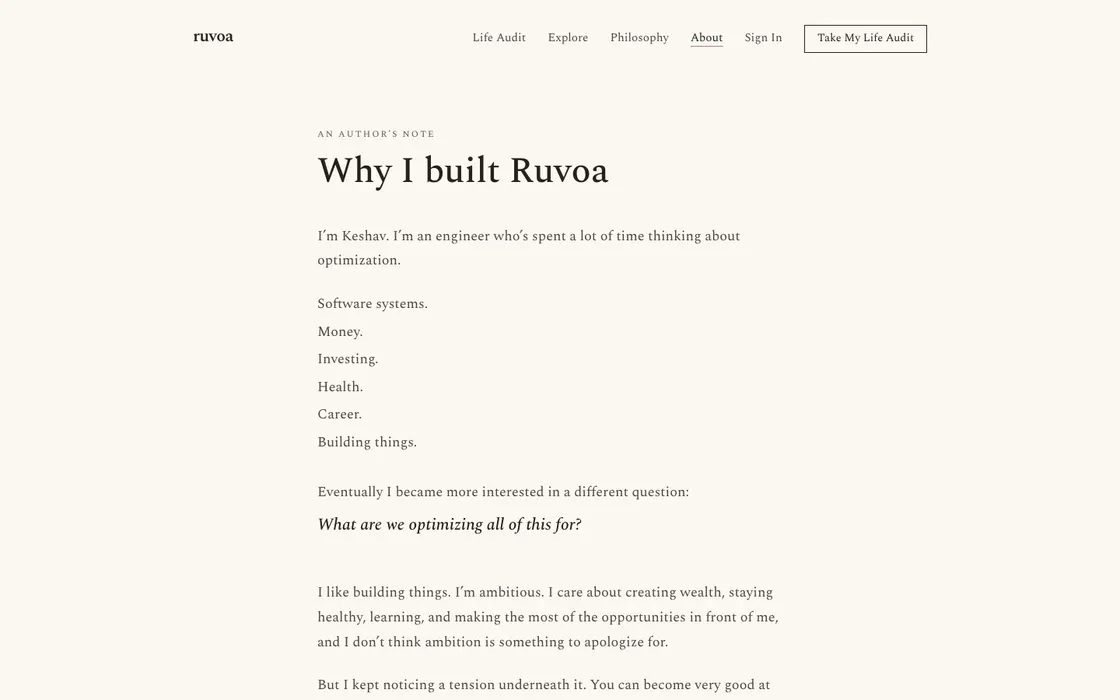
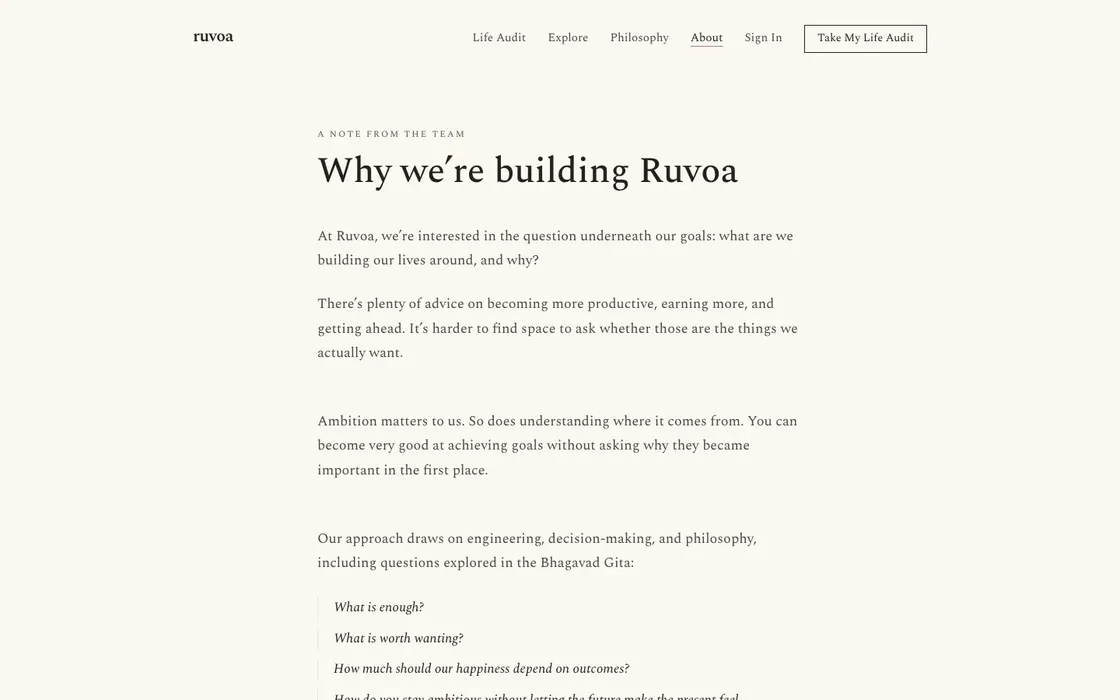
Refresh the Ruvoa About screenshot for the new team voice
Ruvoa's About page was rewritten and deployed, so the last slideshow frame
showed the retired first-person note. Recaptured from the live site after
confirming the new copy was serving.

The frame's alt text described "the author's first-person note", which is
precisely what the page is no longer, so that is updated too. The other four
Ruvoa frames are untouched: both upstream commits changed only the About
route.

diff --git a/src/config/websites.js b/src/config/websites.js
@@ -18,7 +18,7 @@ export const websiteExamples = [
       { src: '/work/ruvoa/life-audit.webp', page: 'Life Audit', alt: 'Life Audit page walking through a miniature version of the product.' },
       { src: '/work/ruvoa/explore.webp', page: 'Explore', alt: 'Explore page: a gallery of example result artifacts.' },
       { src: '/work/ruvoa/philosophy.webp', page: 'Philosophy', alt: 'Philosophy essay page with a drop cap opening.' },
-      { src: '/work/ruvoa/about.webp', page: 'About', alt: "About page with the author's first-person note." },
+      { src: '/work/ruvoa/about.webp', page: 'About', alt: 'About page: a note from the team on why they are building Ruvoa.' },
     ],
   },
   {

diff --git a/docs/ai/CURRENT_PLAN.md b/docs/ai/CURRENT_PLAN.md
@@ -583,3 +583,27 @@ building AI-powered products" line matches current positioning. Left alone.
 Build passes. The only remaining "two weeks" in the codebase is the FAQ
 conditional at config/websites.js:126, which is contingent on client response
 time rather than a promise.
+
+
+## Round 16 (Claude, 2026-09-22): refresh the Ruvoa About screenshot
+
+Ruvoa's /about page was rewritten into the team voice (ruvoa commits 948274c,
+a18f7b8) and deployed, so the fifth slideshow frame on /websites showed the
+retired first-person author's note.
+
+Confirmed the new copy was live at www.ruvoa.app/about before capturing
+(h1 "Why we're building Ruvoa", signature "The Ruvoa team"), then recaptured
+at 1440 and resized to 1120 webp, matching how the original set was made.
+26KB, up from 21KB.
+
+Checked whether the other four Ruvoa frames were also stale: git log since the
+screenshots were taken shows both commits touched only
+app/(site)/about/page.tsx, so home, life-audit, explore and philosophy are
+still accurate and were left alone.
+
+Also updated that frame's alt text, which still read "About page with the
+author's first-person note" and described exactly what the page no longer is.
+
+Note: one `npm run build` failed with a transient Turbopack error about
+next/font/google import maps. It passed unchanged on re-run; not a real
+failure, and worth knowing before chasing it.
